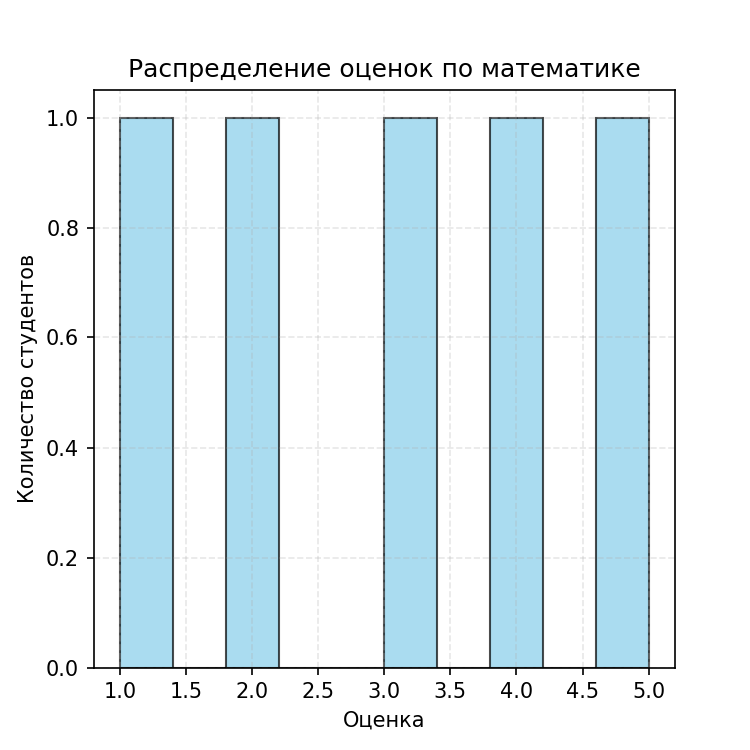
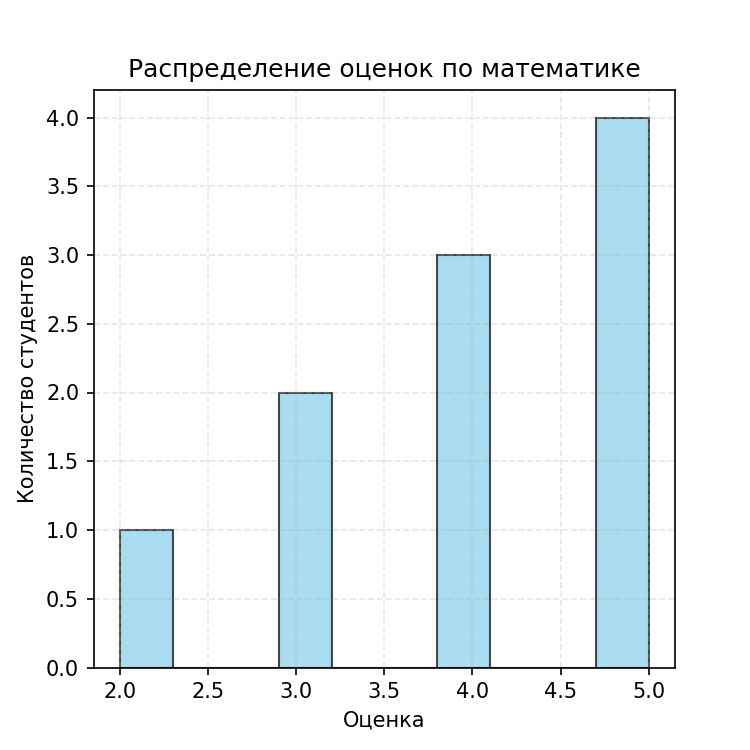
Корректировка значений для графиков

diff --git a/numpy_lab/main.py b/numpy_lab/main.py
@@ -103,10 +103,7 @@ def elementwise_multiply(a: np.ndarray, b: np.ndarray) -> np.ndarray:
 
 def dot_product(a: np.ndarray, b: np.ndarray) -> float:
     """
-    Скалярное произведение.
-
-    Изучить:
-    https://numpy.org/doc/stable/reference/generated/numpy.dot.html
+    Скалярное произведение
 
     Args:
         a (numpy.ndarray): Первый вектор
@@ -126,9 +123,6 @@ def matrix_multiply(a: np.ndarray, b: np.ndarray) -> np.ndarray:
     """
     Умножение матриц.
 
-    Изучить:
-    https://numpy.org/doc/stable/reference/generated/numpy.matmul.html
-
     Args:
         a (numpy.ndarray): Первая матрица
         b (numpy.ndarray): Вторая матрица
@@ -143,9 +137,6 @@ def matrix_determinant(a: np.ndarray) -> float:
     """
     Определитель матрицы.
 
-    Изучить:
-    https://numpy.org/doc/stable/reference/generated/numpy.linalg.det.html
-
     Args:
         a (numpy.ndarray): Квадратная матрица
 
@@ -159,8 +150,6 @@ def matrix_inverse(a: np.ndarray) -> np.ndarray:
     """
     Обратная матрица.
 
-    Изучить:
-    https://numpy.org/doc/stable/reference/generated/numpy.linalg.inv.html
 
     Args:
         a (numpy.ndarray): Квадратная матрица
@@ -174,9 +163,6 @@ def matrix_inverse(a: np.ndarray) -> np.ndarray:
 def solve_linear_system(a: np.ndarray, b: np.ndarray) -> np.ndarray:
     """
     Решить систему Ax = b
-
-    Изучить:
-    https://numpy.org/doc/stable/reference/generated/numpy.linalg.solve.html
 
     Args:
         a (numpy.ndarray): Матрица коэффициентов A
@@ -208,21 +194,6 @@ def load_dataset(path: str = "data/students_scores.csv") -> np.ndarray:
 
 def statistical_analysis(data: np.ndarray) -> dict:
     """
-    Представьте, что данные — это результаты экзамена по математике.
-    Нужно оценить:
-    - средний балл
-    - медиану
-    - стандартное отклонение
-    - минимум
-    - максимум
-    - 25 и 75 перцентили
-
-    Изучить:
-    https://numpy.org/doc/stable/reference/generated/numpy.mean.html
-    https://numpy.org/doc/stable/reference/generated/numpy.median.html
-    https://numpy.org/doc/stable/reference/generated/numpy.std.html
-    https://numpy.org/doc/stable/reference/generated/numpy.percentile.html
-
     Args:
         data (numpy.ndarray): Одномерный массив данных
 
@@ -324,11 +295,21 @@ def plot_line(x: np.ndarray, y: np.ndarray) -> None:
 
 if __name__ == "__main__":
     # Пример данных
-    math_scores = np.array([78,85,92,70,88,95,60,73,84,90])
+    math_scores = np.array([5, 4, 5, 3, 5, 4, 2, 3, 5, 4])
     students = np.arange(1, len(math_scores)+1)
 
     # Построение и сохранение графиков
     plot_histogram(math_scores)
     plot_line(students, math_scores)
 
-    print("Графики в  'plots/'")
+    # Создаём DataFrame с оценками по трём предметам
+    scores_data = pd.DataFrame({
+        'math': [5, 4, 5, 3, 4],
+        'physics': [4, 4, 5, 3, 4],
+        'chemistry': [4, 5, 5, 3, 4]
+    })
+    # Вычисляем матрицу корреляции
+    corr_matrix = scores_data.corr().values  # .values преобразует в numpy-массив
+
+
+
